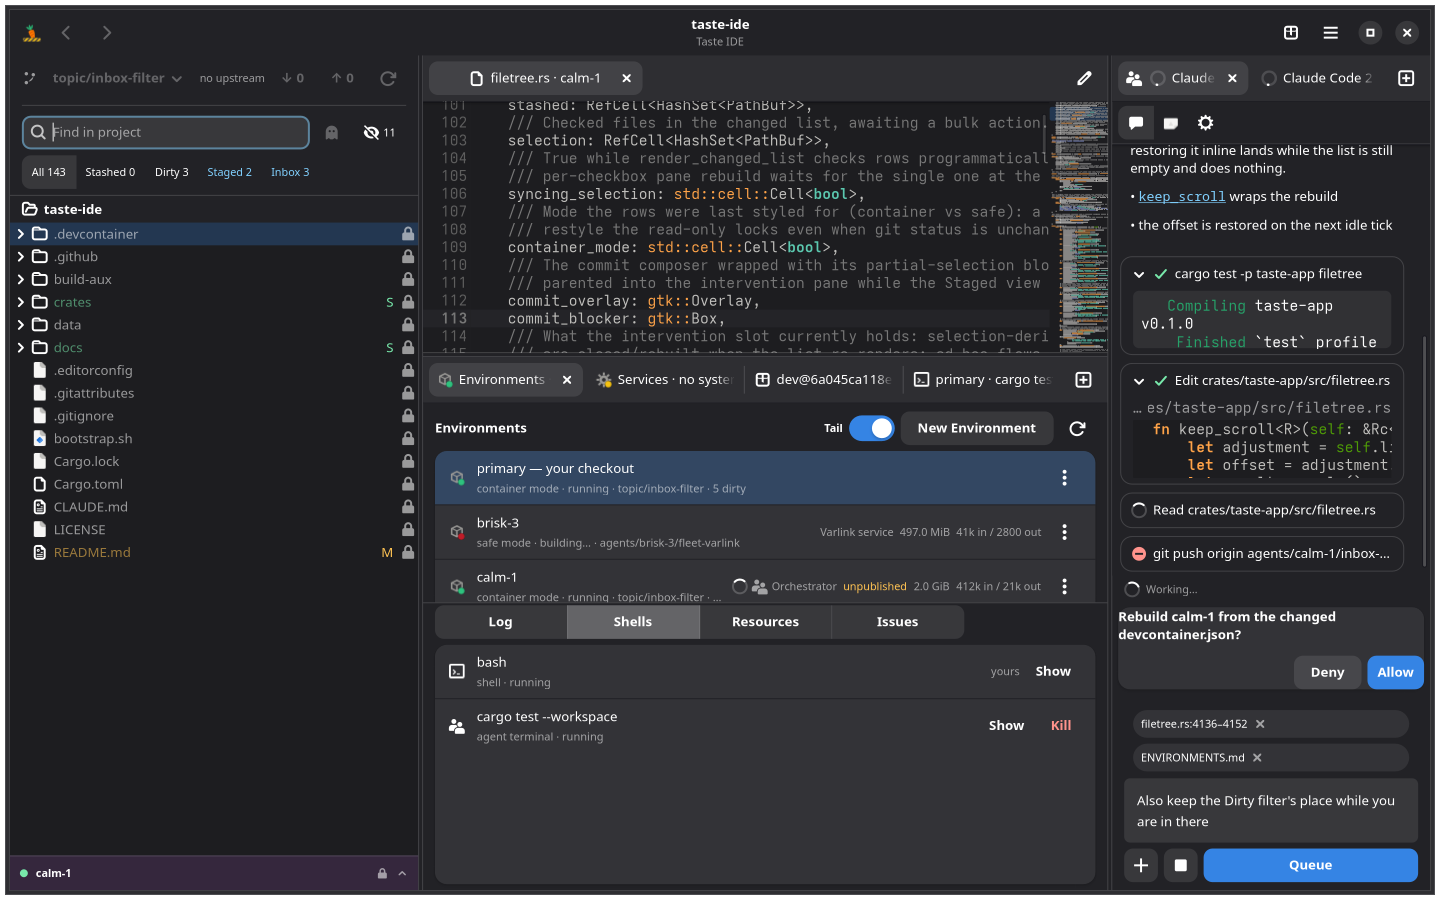
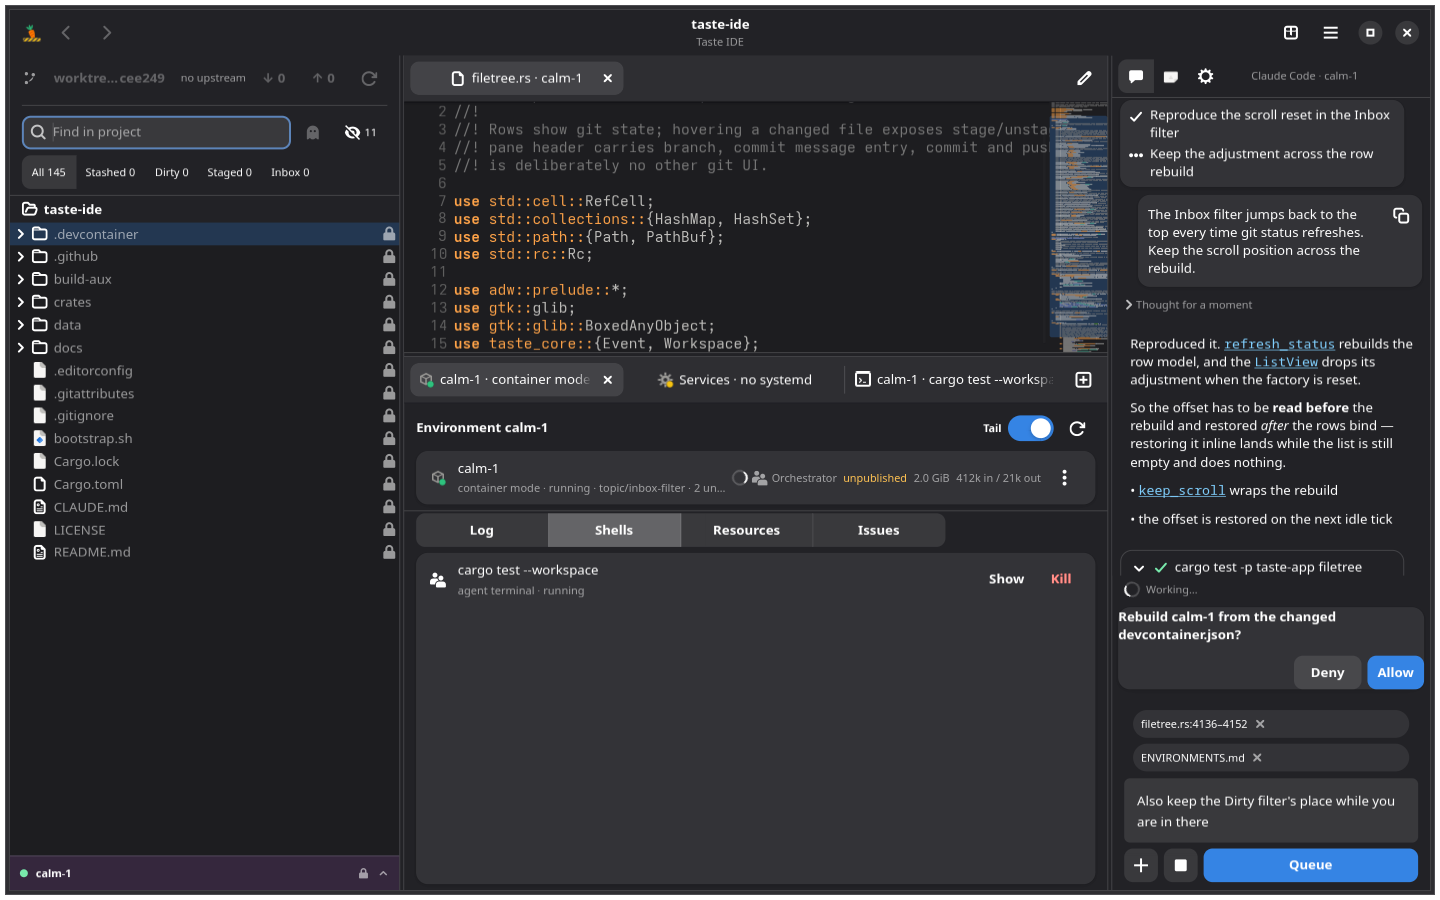
Watching: the shot shows the principle, and switching stops closing shells
Retakes docs/screenshots/watching.png, which still showed the chat tab
strip and a console listing three environments. It now shows one world:
the panel on calm-1 and tinted, every tree row locked, the editor holding
calm-1's tab, the console tab and heading naming calm-1 with its own
summary row and its agent terminal, and the chat headed "Claude Code ·
calm-1" with no tabs above it.

Two real bugs the retake found, both from looking rather than from a
test:

Scoping the console's shell tabs by CLOSING them killed the user's own
interactive terminal on every environment switch — user terminals are in
the same map as the agent's read-only mirrors, and a close is how a user
terminal ends. They are stowed now, into an unparented AdwTabView per
environment, exactly as the editor stows its pages: a live VTE and its
scrollback are not the pane's to throw away for tidiness.

The tree's branch label had no width bounds, so a long branch name widened
the file tree and took the room from the editor — and this pane's minimum
is what decides whether GNOME will tile the window. It ellipsizes between
a floor and a ceiling now (the floor matters too: a bare maximum let it
collapse to "w…49"), with the full name in the tooltip.

The shot's fixture follows the selection: the seeded agent terminal is
the watched environment's, so the roster is not empty in the one view
that is about watching. shoot.sh refuses a blank frame rather than
[…]

diff --git a/crates/taste-app/src/console.rs b/crates/taste-app/src/console.rs
@@ -136,7 +136,19 @@ pub struct Console {
     roster_list: gtk::ListBox,
     /// Which console tab shows which shell, so the roster can bring one to
     /// the front instead of opening a second view of it.
-    shell_tabs: RefCell<HashMap<ShellId, adw::TabPage>>,
+    /// The tab showing each shell, and the environment it belongs to.
+    ///
+    /// The environment is recorded rather than looked up, because a shell
+    /// that has EXITED leaves the roster while its tab is deliberately
+    /// kept (the output is worth reading after the command ends) — and a
+    /// tab whose environment could not be answered would be a tab that
+    /// belongs to whichever one is selected.
+    shell_tabs: RefCell<HashMap<ShellId, (EnvironmentId, adw::TabPage)>>,
+    /// Shell tabs of the environments that are not on screen. Unparented
+    /// `AdwTabView`s, exactly as the editor stows its pages: a shell tab
+    /// holds a live VTE — the user's own terminal among them — so it is
+    /// moved out of sight, never closed.
+    stowed_shells: RefCell<HashMap<EnvironmentId, adw::TabView>>,
     detail_stack: gtk::Stack,
     /// The workspace's issue queue, read off `refs/taste/issues` in the
     /// main checkout. Held rather than re-read, for the same reason the
@@ -427,6 +439,7 @@ impl Console {
             resources_list,
             roster_list,
             shell_tabs: RefCell::new(HashMap::new()),
+            stowed_shells: RefCell::new(HashMap::new()),
             detail_stack,
             issues: RefCell::new(Vec::new()),
             issue_list: issue_list.clone(),
@@ -492,7 +505,7 @@ impl Console {
                     .shell_tabs
                     .borrow()
                     .iter()
-                    .filter(|(_, tab)| *tab == page)
+                    .filter(|(_, (_, tab))| *tab == *page)
                     .map(|(id, _)| *id)
                     .collect();
                 for id in closing {
@@ -1599,7 +1612,11 @@ impl Console {
                         console.detail_stack.set_visible_child_name("log");
                         return;
                     }
-                    let page = console.shell_tabs.borrow().get(&id).cloned();
+                    let page = console
+                        .shell_tabs
+                        .borrow()
+                        .get(&id)
+                        .map(|(_, page)| page.clone());
                     if let Some(page) = page {
                         console.tabs.set_selected_page(&page);
                     }
@@ -2396,7 +2413,9 @@ impl Console {
             .workspace
             .shells
             .register(env.clone(), ShellKind::User, "bash", None);
-        self.shell_tabs.borrow_mut().insert(sink.id(), page.clone());
+        self.shell_tabs
+            .borrow_mut()
+            .insert(sink.id(), (env.clone(), page.clone()));
         // Retitle as user@host, asked of the shell's own execution context
         // (the placeholder above stands until the probe answers).
         {
@@ -2471,35 +2490,48 @@ impl Console {
         }
     }
 
-    /// Make the shell tabs be the selected environment's, and only those.
+    /// Make the shell tabs on screen be the selected environment's, and
+    /// only those.
     ///
     /// A tab showing a command running in another environment is that
-    /// environment's resource in this environment's pane — the thing this
-    /// whole pass is about. Closing it loses nothing: the shell lives in
-    /// the roster, its output is kept there, and going back to that
-    /// environment brings the tab back with all of it.
+    /// environment's resource sitting in this environment's pane — the
+    /// thing this whole pass is about. But it is **stowed, never closed**:
+    /// a shell tab holds a live VTE, and one of them is the user's own
+    /// interactive terminal. Closing that because they looked at another
+    /// environment would kill a running command and throw away its
+    /// scrollback — the pane's tidiness is not worth the user's work. The
+    /// pages move to an unparented `AdwTabView` per environment, the same
+    /// way the editor stows its tabs, and come back untouched.
     fn sync_shell_tabs(self: &Rc<Self>) {
         let env = self.selected.borrow().clone();
-        // Out: tabs for shells that are not this environment's.
-        let stale: Vec<(u64, adw::TabPage)> = self
+        // What is on screen right now. `AdwTabPage` cannot be asked which
+        // view holds it, so the view is asked instead — and it is the only
+        // authority worth trusting here anyway.
+        let on_screen: Vec<adw::TabPage> = (0..self.tabs.n_pages())
+            .map(|index| self.tabs.nth_page(index))
+            .collect();
+        // Out: everything on screen that is not this environment's.
+        let leaving: Vec<(EnvironmentId, adw::TabPage)> = self
             .shell_tabs
             .borrow()
-            .iter()
-            .filter(|(id, _)| {
-                !self
-                    .workspace
-                    .shells
-                    .list(Some(&env))
-                    .iter()
-                    .any(|entry| entry.id == **id)
-            })
-            .map(|(id, page)| (*id, page.clone()))
+            .values()
+            .filter(|(owner, page)| *owner != env && on_screen.contains(page))
+            .cloned()
             .collect();
-        for (id, page) in stale {
-            self.shell_tabs.borrow_mut().remove(&id);
-            self.tabs.close_page(&page);
+        for (owner, page) in leaving {
+            let holding = self.holding_shell_view(&owner);
+            self.tabs.transfer_page(&page, &holding, holding.n_pages());
+            self.stowed_shells.borrow_mut().insert(owner, holding);
         }
-        // In: the agent's shells here that have no tab yet.
+        // Back in: everything this environment had stowed, in the order it
+        // was stowed in.
+        if let Some(holding) = self.stowed_shells.borrow_mut().remove(&env) {
+            while holding.n_pages() > 0 {
+                let page = holding.nth_page(0);
+                holding.transfer_page(&page, &self.tabs, self.tabs.n_pages());
+            }
+        }
+        // ...and any of the agent's shells here that have no tab at all yet.
         for entry in self.workspace.shells.list(Some(&env)) {
             if self.shell_tabs.borrow().contains_key(&entry.id) {
                 continue;
@@ -2508,6 +2540,14 @@ impl Console {
                 self.add_shell_tab(&entry);
             }
         }
+    }
+
+    /// The unparented view holding one environment's stowed shell tabs.
+    fn holding_shell_view(&self, env: &EnvironmentId) -> adw::TabView {
+        if let Some(view) = self.stowed_shells.borrow().get(env) {
+            return view.clone();
+        }
+        adw::TabView::new()
     }
 
     /// A live, read-only view of one shell the agent is running: the
@@ -2597,7 +2637,9 @@ impl Console {
             ShellKind::ExecJob => "system-run-symbolic",
             _ => "utilities-terminal-symbolic",
         })));
-        self.shell_tabs.borrow_mut().insert(entry.id, page.clone());
+        self.shell_tabs
+            .borrow_mut()
+            .insert(entry.id, (entry.env.clone(), page.clone()));
         // Agent work must not steal the tab the user is reading. Unlike a
         // terminal the user asked for, nobody asked for this one.
         if self.tabs.selected_page().is_none() {

diff --git a/crates/taste-app/src/filetree.rs b/crates/taste-app/src/filetree.rs
@@ -45,6 +45,9 @@ pub struct FileTree {
     status: Rc<RefCell<HashMap<PathBuf, FileState>>>,
     list_holder: gtk::ScrolledWindow,
     branch_label: gtk::MenuButton,
+    /// The label inside it: ellipsizing, so a long branch name cannot
+    /// widen this pane (see the construction site).
+    branch_child: gtk::Label,
     init_button: gtk::Button,
     branch_popover: gtk::Popover,
     sync_label: gtk::Label,
@@ -222,9 +225,27 @@ impl FileTree {
     pub fn new(workspace: Workspace) -> Rc<Self> {
         // The branch is a dropdown: switch to any local branch, or type a
         // name to create one.
+        //
+        // Its label ellipsizes and is capped, because a branch name is
+        // arbitrary text from the repository and this pane's natural width
+        // is load-bearing: an unbounded label lets
+        // `release/2026-q3-migration-step-two` widen the file tree and take
+        // the room from the editor — and the pane's minimum is what decides
+        // whether GNOME will tile this window at all. The full name is in
+        // the tooltip and in the dropdown.
+        // Both bounds, and both matter: the maximum stops a long name
+        // widening the pane, and the minimum stops an ellipsizing label
+        // giving up all its width and collapsing to "w…49".
+        let branch_child = gtk::Label::builder()
+            .ellipsize(gtk::pango::EllipsizeMode::Middle)
+            .width_chars(14)
+            .max_width_chars(22)
+            .xalign(0.0)
+            .build();
         let branch_label = gtk::MenuButton::builder()
             .css_classes(["flat"])
             .direction(gtk::ArrowType::Down)
+            .child(&branch_child)
             .build();
         let commit_entry = gtk::Entry::builder()
             .placeholder_text("Commit message")
@@ -513,6 +534,7 @@ impl FileTree {
             list_holder,
             intervention: intervention.clone(),
             branch_label,
+            branch_child,
             init_button: init_button.clone(),
             branch_popover: branch_popover.clone(),
             sync_label,
@@ -817,6 +839,14 @@ impl FileTree {
             self.rebuild();
         }
         self.rebuild_index();
+    }
+
+    /// Set the branch shown in the header, with the full name in the
+    /// tooltip: the label ellipsizes, so the tooltip is where a long name
+    /// stays readable.
+    fn set_branch_label(&self, branch: &str) {
+        self.branch_child.set_label(branch);
+        self.branch_child.set_tooltip_text(Some(branch));
     }
 
     /// Which environment the panes are aimed at (`None` = the primary).
@@ -1591,8 +1621,7 @@ impl FileTree {
                 *self.inbox.borrow_mut() = snapshot.inbox;
                 self.ignore_rules.set(snapshot.ignore_rules);
                 self.sync_filter_counts();
-                self.branch_label
-                    .set_label(&snapshot.branch.unwrap_or_else(|| "(no branch)".into()));
+                self.set_branch_label(&snapshot.branch.unwrap_or_else(|| "(no branch)".into()));
                 self.abort_button.set_visible(snapshot.rebasing);
                 self.continue_button.set_visible(snapshot.rebasing);
                 // Mid-operation: this snapshot predates the result, so

diff --git a/crates/taste-app/src/window.rs b/crates/taste-app/src/window.rs
@@ -771,7 +771,10 @@ pub fn build_window(app: &adw::Application, root: PathBuf) -> adw::ApplicationWi
             })
         };
         // A live agent terminal: the console's half of live shells.
-        console.seed_agent_terminal_for_probe(&primary_env);
+        console.seed_agent_terminal_for_probe(
+            &taste_core::environment::EnvironmentId::parse(probe_env)
+                .unwrap_or_else(|_| primary_env.clone()),
+        );
         // And a fleet with something in it: one row per environment is
         // what the console's pinned tab now is. The console gets more of
         // the window than it normally has, because a fleet of one row is
